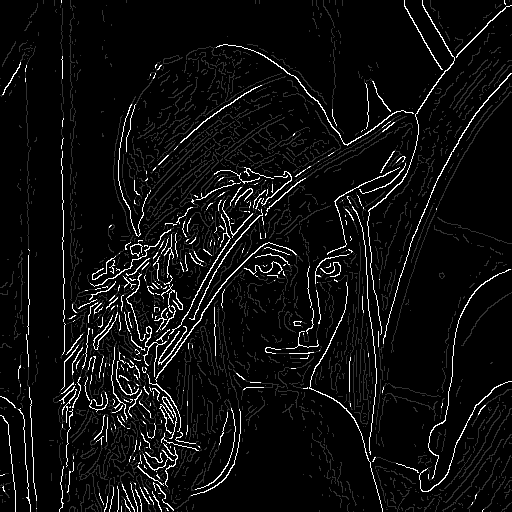
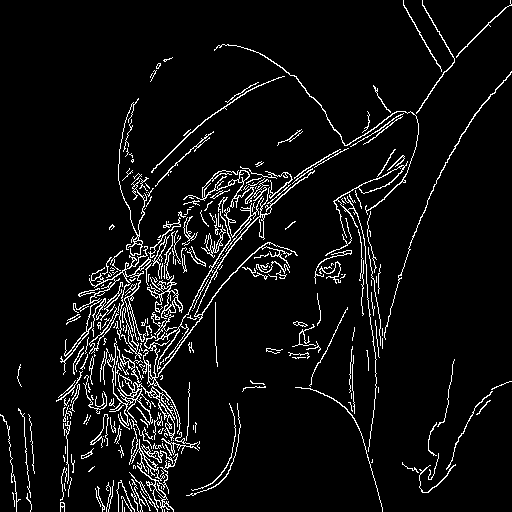
add hysteresis_threshold

diff --git a/conv2d-canny.py b/conv2d-canny.py
@@ -8,6 +8,7 @@ import matplotlib.pyplot as plt
 import math
 import time
 import argparse
+from collections import deque
 
 
 def dnorm(x, mu, sd):
@@ -94,19 +95,10 @@ def functional_conv2d_vertical(im, verbose=False):
     return edge_detect
 
 
-def threshold(image, low, high, weak=0, strong=255):
-    strong_mask = image >= high
-    weak_mask = (image > low) & (image < high)
-    output = torch.zeros_like(image)
-    output[strong_mask] = strong
-    output[weak_mask] = weak
-    return output
-
-
-def nms(gradient_magnitude, gradient_direction_quantized, verbose=False):
+def nms(gradient_magnitude: torch.tensor, gradient_direction_quantized: torch.tensor, verbose=False) -> torch.tensor:
     """非极大值抑制"""
 
-    nms_tensor = torch.zeros_like(gradient_magnitude)
+    nms_edge = torch.zeros_like(gradient_magnitude)
     # nms_conv_op = torch.nn.Conv2d(in_channels=1,out_channels=3, kernel_size=3, stride=1, padding=1, padding_mode='replicate', bias=False)
     nms_conv_op = torch.nn.Conv2d(in_channels=1,out_channels=3, kernel_size=3, stride=1, padding=1, bias=False)
 
@@ -138,7 +130,7 @@ def nms(gradient_magnitude, gradient_direction_quantized, verbose=False):
         
         # selected_gradient_magnitude = gradient_magnitude * mask_i
         # print("selected: ", selected_gradient_magnitude)
-        # nms_tensor_i = torch.nn.functional.max_pool2d(selected_gradient_magnitude, kernel_size=3,
+        # nms_edge_i = torch.nn.functional.max_pool2d(selected_gradient_magnitude, kernel_size=3,
         #                                               stride=1, padding=1)
         nms_conv_op.weight.data = kernel_direction_quantized[i].reshape((3, 1, 3, 3))
         nms_direction_conv_i = nms_conv_op(gradient_magnitude)
@@ -148,21 +140,21 @@ def nms(gradient_magnitude, gradient_direction_quantized, verbose=False):
         if verbose:
             print("nms_direction_conv_mask_max_i: ", nms_direction_conv_mask_max_i)
             print("nms_direction_i: ", nms_direction_conv_mask_max_i)
-        nms_tensor = nms_tensor + ((gradient_magnitude == nms_direction_conv_mask_max_i) * nms_direction_conv_mask_max_i) 
+        nms_edge = nms_edge + ((gradient_magnitude == nms_direction_conv_mask_max_i) * nms_direction_conv_mask_max_i) 
 
     if verbose:
-        print("nms_tensor: ", nms_tensor)
+        print("nms_edge: ", nms_edge)
 
     # verbose = True
     if verbose:
-        plt.imshow(nms_tensor.squeeze().detach().numpy(), cmap='gray')
+        plt.imshow(nms_edge.squeeze().detach().numpy(), cmap='gray')
         plt.title("Non-Maximum Suppression")
         plt.show()
     
-    return nms_tensor
+    return nms_edge
 
 
-def get_gradient_magnitude(gradient_v, gradient_h, verbose=False, use_l2_norm=False):
+def get_gradient_magnitude(gradient_v: torch.tensor, gradient_h: torch.tensor, verbose=False, use_l2_norm=False) -> torch.tensor:
     """计算梯度幅值
     """
     # 计算梯度的幅值
@@ -182,7 +174,7 @@ def get_gradient_magnitude(gradient_v, gradient_h, verbose=False, use_l2_norm=Fa
     return gradient_magnitude
 
 
-def get_gradient_direction_quantized(gradient_v, gradient_h, verbose=False):
+def get_gradient_direction_quantized(gradient_v: torch.tensor, gradient_h: torch.tensor, verbose=False) -> torch.tensor:
     """计算梯度方向
     将梯度方向转换为四个方向之一: 0度，45度，90度，135度, 分别用 0,1,2,3 表示。
     """
@@ -200,6 +192,47 @@ def get_gradient_direction_quantized(gradient_v, gradient_h, verbose=False):
         print("gradient_direction_quantized: ", gradient_direction_quantized)
 
     return gradient_direction_quantized
+
+
+def threshold(image, low, high, weak=0, strong=255):
+    strong_mask = image >= high
+    weak_mask = (image > low) & (image < high)
+    output = torch.zeros_like(image)
+    output[strong_mask] = strong
+    output[weak_mask] = weak
+    return output
+
+
+def hysteresis_threshold(nms_edge: torch.tensor, low: int, high: int) -> torch.tensor:
+    nms_edge = nms_edge.squeeze()
+    strong_mask = nms_edge >= high
+    weak_mask = (nms_edge > low) & (nms_edge < high).int()
+    output_index = []
+    # get strong_mask index
+    strong_index = torch.nonzero(strong_mask).tolist()
+    # create stack and push strong_index
+    stack = deque(strong_index)
+
+    while len(stack) > 0:
+        # pop item
+        item = stack.pop()
+        # get item index
+        i, j = item[0], item[1]
+        # get weak_mask index
+        local_index = torch.nonzero(weak_mask[i-1:i+2, j-1:j+2]).tolist()
+        for local_index_item in local_index:
+            # stack.append(weak_index[i])
+            weak_index_item = [i-1+local_index_item[0], j-1+local_index_item[1]]
+            stack.append(weak_index_item)
+            weak_mask[weak_index_item[0], weak_index_item[1]] = 0
+        output_index.append(item)
+
+    # create output tensor use output_index
+    output_index_tensor = torch.tensor(output_index)  # (N, 2) 
+    output = torch.zeros_like(nms_edge)
+    output[output_index_tensor[:, 0], output_index_tensor[:, 1]] = 255
+
+    return output
 
 
 def save_edge_detect_as_image(edge_detect, save_image_path, verbose=False):
@@ -290,9 +323,12 @@ def main():
     # 计算梯度方向
     gradient_direction_quantized = get_gradient_direction_quantized(gradient_v, gradient_h, verbose=verbose)
     # 非极大值抑制
-    nms_tensor = nms(gradient_magnitude, gradient_direction_quantized, verbose=verbose)
+    nms_edge = nms(gradient_magnitude, gradient_direction_quantized, verbose=verbose)
+
     # 阈值处理
-    edge_detect = threshold(nms_tensor, low=threshold_low, high=threshold_high, weak=50, strong=255)
+    # edge_detect = threshold(nms_edge, low=threshold_low, high=threshold_high, weak=50, strong=255)
+    # 滞后阈值
+    edge_detect = hysteresis_threshold(nms_edge, low=threshold_low, high=threshold_high)
 
     if verbose:
         print("edge_detect.shape: ", edge_detect.shape, "im.shape: ", im.shape)
